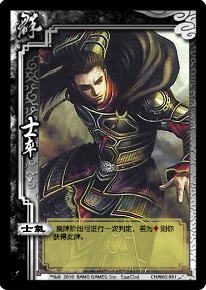
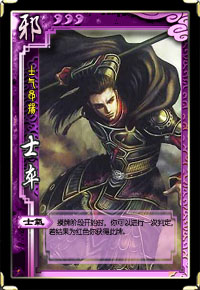
调整兵卒图片、名称和技能 将春华加入一将包 闯关武将不会在通常模式出现 但可用自由选将选到

diff --git a/src/pass/pass-package.cpp b/src/pass/pass-package.cpp
@@ -237,7 +237,7 @@ public:
         ServerPlayer *gongshou = effect.from;
         Room *room = gongshou->getRoom();
 
-        if(gongshou->getHp() <= 1 || gongshou->getAttackRange() > 3){
+        if(gongshou->getHp() <= 1 || gongshou->getAttackRange() > 4){
             if(gongshou->askForSkillInvoke(objectName(), QVariant::fromValue(effect))){
                 room->slashResult(effect, NULL);
                 return true;
@@ -254,11 +254,11 @@ public:
         frequency = Compulsory;
     }
 
-    virtual bool trigger(TriggerEvent event, ServerPlayer *jianwei, QVariant &data) const{
-        Room *room = jianwei->getRoom();
+    virtual bool trigger(TriggerEvent event, ServerPlayer *jianshi, QVariant &data) const{
+        Room *room = jianshi->getRoom();
         LogMessage log;
         log.type = "#TriggerSkill";
-        log.from = jianwei;
+        log.from = jianshi;
         log.arg = objectName();
         SlashEffectStruct effect = data.value<SlashEffectStruct>();
         if(event == SlashEffect){
@@ -286,15 +286,15 @@ public:
         frequency = Frequent ;
     }
 
-    virtual bool trigger(TriggerEvent , ServerPlayer *jianwei, QVariant &data) const{
+    virtual bool trigger(TriggerEvent , ServerPlayer *jianshi, QVariant &data) const{
         CardEffectStruct effect = data.value<CardEffectStruct>();
 
         if(effect.card->inherits("AOE")){
-            Room *room = jianwei->getRoom();
-            jianwei->drawCards(1);
+            Room *room = jianshi->getRoom();
+            jianshi->drawCards(1);
             LogMessage log;
             log.type = "#TriggerDrawSkill";
-            log.from = jianwei;
+            log.from = jianshi;
             log.arg = objectName();
             log.arg2 = QString::number(1);
             room->sendLog(log);
@@ -325,6 +325,41 @@ public:
         return correct;
     }
 };
+
+
+
+class XunmaPass: public OneCardViewAsSkill{
+public:
+    XunmaPass():OneCardViewAsSkill("xunma_p"){
+
+    }
+
+    virtual bool viewFilter(const CardItem *to_select) const{
+        return to_select->getCard()->inherits("Horse") ;
+    }
+
+    virtual const Card *viewAs(CardItem *card_item) const{
+        XunmaPassCard *card = new XunmaPassCard;
+        card->addSubcard(card_item->getCard()->getId());
+        return card;
+    }
+};
+
+XunmaPassCard::XunmaPassCard(){
+    target_fixed = true ;
+}
+
+void XunmaPassCard::use(Room *room, ServerPlayer *qibing, const QList<ServerPlayer *> &) const{
+    room->throwCard(this);
+    qibing->drawCards(2);
+    if(qibing->isWounded()){
+        RecoverStruct recover;
+        recover.card = this;
+        recover.who = qibing;
+        room->recover(qibing,recover);
+    }
+}
+
 
 class ChenwenPass: public TriggerSkill{
 public:
@@ -382,14 +417,14 @@ public:
 };
 
 
-class YaoshuPass: public OneCardViewAsSkill{
+class DianjiPass: public OneCardViewAsSkill{
 public:
-    YaoshuPass():OneCardViewAsSkill("yaoshu_p"){
+    DianjiPass():OneCardViewAsSkill("dianji_p"){
 
     }
 
     virtual bool isEnabledAtPlay(const Player *player) const{
-        return !player->hasUsed("YaoshuPassCard");
+        return !player->hasUsed("DianjiPassCard");
     }
 
     virtual bool viewFilter(const CardItem *to_select) const{
@@ -397,26 +432,25 @@ public:
     }
 
     virtual const Card *viewAs(CardItem *card_item) const{
-        YaoshuPassCard *yaoshu_card = new YaoshuPassCard;
-        yaoshu_card->addSubcard(card_item->getCard()->getId());
-
-        return yaoshu_card;
+        DianjiPassCard *card = new DianjiPassCard;
+        card->addSubcard(card_item->getCard()->getId());
+        return card;
     }
 };
 
-YaoshuPassCard::YaoshuPassCard(){
+DianjiPassCard::DianjiPassCard(){
     once = true;
 }
 
-bool YaoshuPassCard::targetFilter(const QList<const Player *> &targets, const Player *to_select, const Player *Self) const{
+bool DianjiPassCard::targetFilter(const QList<const Player *> &targets, const Player *to_select, const Player *Self) const{
     return targets.isEmpty();
 }
 
-void YaoshuPassCard::onEffect(const CardEffectStruct &effect) const{
-    ServerPlayer *yaodao = effect.from;
+void DianjiPassCard::onEffect(const CardEffectStruct &effect) const{
+    ServerPlayer *leishi = effect.from;
     ServerPlayer *target = effect.to;
 
-    Room *room = yaodao->getRoom();
+    Room *room = leishi->getRoom();
     room->setEmotion(target, "bad");
 
     JudgeStruct judge;
@@ -431,20 +465,19 @@ void YaoshuPassCard::onEffect(const CardEffectStruct &effect) const{
         DamageStruct damage;
         damage.card = NULL;
         damage.damage = 1;
-        damage.from = yaodao;
+        damage.from = leishi;
         damage.to = target;
         damage.nature = DamageStruct::Thunder;
 
         room->damage(damage);
     }else
-        room->setEmotion(yaodao, "bad");
+        room->setEmotion(leishi, "bad");
 }
 
 
-
-class JitianPass: public TriggerSkill{
+class LeitiPass: public TriggerSkill{
 public:
-    JitianPass():TriggerSkill("jitian_p"){
+    LeitiPass():TriggerSkill("leiti_p"){
         events << Predamaged;
     }
 
@@ -3362,21 +3395,23 @@ PassPackage::PassPackage()
 
     General *gongshou = new General(this,"gongshou_e","evil",3, false, true);
     gongshou->addSkill(new QianggongPass);
+    gongshou->addSkill(new Skill("shenshe_p"));
 
-    General *jianwei = new General(this,"jianwei_e","evil",3, false, true);
-    jianwei->addSkill(new PojiaPass);
-    jianwei->addSkill(new ZhanshangPass);
+    General *jianshi = new General(this,"jianshi_e","evil",3, false, true);
+    jianshi->addSkill(new PojiaPass);
+    jianshi->addSkill(new ZhanshangPass);
 
     General *qibing = new General(this,"qibing_e","evil",3, true, true);
     qibing->addSkill(new QishuPass);
+    qibing->addSkill(new XunmaPass);
 
     General *huwei = new General(this,"huwei_e","evil",3, true, true);
     huwei->addSkill(new ChenwenPass);
     huwei->addSkill(new ZhongzhuangPass);
 
-    General *yaodao = new General(this,"yaodao_e","evil",3, true, true);
-    yaodao->addSkill(new YaoshuPass);
-    yaodao->addSkill(new JitianPass);
+    General *leishi = new General(this,"leishi_e","evil",3, true, true);
+    leishi->addSkill(new DianjiPass);
+    leishi->addSkill(new LeitiPass);
 
     General *kuangdaoke = new General(this,"kuangdaoke_e","evil",3, true, true);
     kuangdaoke->addSkill(new LianzhanPass);
@@ -3398,7 +3433,8 @@ PassPackage::PassPackage()
 
     addMetaObject<DuanyanPassCard>();
     addMetaObject<QuanhengCard>();
-    addMetaObject<YaoshuPassCard>();
+    addMetaObject<XunmaPassCard>();
+    addMetaObject<DianjiPassCard>();
     addMetaObject<RendePassCard>();
     addMetaObject<JijiangPassCard>();
     addMetaObject<LiegongPassCard>();

diff --git a/src/package/yjcm-package.cpp b/src/package/yjcm-package.cpp
@@ -908,6 +908,60 @@ public:
     }
 };
 
+
+class Shangshi: public TriggerSkill{
+public:
+    Shangshi():TriggerSkill("shangshi"){
+        events << Damaged << CardLost << HpLost ;
+        frequency = Frequent ;
+    }
+
+    virtual bool trigger(TriggerEvent event, ServerPlayer *chunhua, QVariant &data) const{
+        Room *room = chunhua->getRoom();
+        if(chunhua->getLostHp() <= chunhua->getHandcardNum())
+            return false ;
+        if(event == CardLost){
+            CardMoveStar move = data.value<CardMoveStar>();
+            if(move->from_place != Player::Hand)
+                return false ;
+        }
+        if(room->askForSkillInvoke(chunhua,objectName())){
+            room->playSkillEffect(objectName());
+            int n = chunhua->getLostHp() - chunhua->getHandcardNum() ;
+            LogMessage log;
+            log.type = "#TriggerDrawSkill";
+            log.from = chunhua;
+            log.arg = objectName();
+            log.arg2 = QString::number(n);
+            room->sendLog(log);
+            chunhua->drawCards(n);
+        }
+        return false;
+    }
+};
+
+
+class Jueqing: public TriggerSkill{
+public:
+    Jueqing():TriggerSkill("jueqing"){
+        events << Predamage;
+        frequency = Compulsory ;
+    }
+
+    virtual bool trigger(TriggerEvent , ServerPlayer *chunhua, QVariant &data) const{
+        Room *room = chunhua->getRoom();
+        room->playSkillEffect(objectName());
+        DamageStruct damage = data.value<DamageStruct>();
+        LogMessage log;
+        log.type = "#Jueqing";
+        log.from = chunhua;
+        log.to.append(damage.to);
+        room->sendLog(log);
+        room->loseHp(damage.to,damage.damage);
+        return true;
+    }
+};
+
 YJCMPackage::YJCMPackage():Package("YJCM"){
     General *caozhi = new General(this, "caozhi", "wei", 3);
     caozhi->addSkill(new Luoying);
@@ -953,6 +1007,10 @@ YJCMPackage::YJCMPackage():Package("YJCM"){
     General *gaoshun = new General(this, "gaoshun", "qun");
     gaoshun->addSkill(new Xianzhen);
     gaoshun->addSkill(new Jiejiu);
+
+    General *zhangchunhua = new General(this, "zhangchunhua", "wei", 3 , false);
+    zhangchunhua->addSkill(new Shangshi);
+    zhangchunhua->addSkill(new Jueqing);
 
     addMetaObject<JujianCard>();
     addMetaObject<MingceCard>();

diff --git a/src/scenario/pass-mode-scenario.cpp b/src/scenario/pass-mode-scenario.cpp
@@ -37,16 +37,16 @@ PassMode::PassMode(QObject *parent)
 {
     setObjectName("pass_mode_rule");
 
-    enemy_list  << "shizu+gongshou+jianwei" << "jianwei+qibing+jianwei"
-                << "huwei+gongshou+jianwei" << "jianwei+kuangdaoke+shizu"
-                << "huwei+caocao_p+jianwei" << "kuangdaoke+luxun_p+shizu"
-                << "qibing+machao_p+qibing" << "jianwei+zhaoyun_p+kuangdaoke"
-                << "jianwei+zhouyu_p+jianwei" << "yaodao+guojia_p+yaodao"
-                << "huwei+zhangliao_p+kuangdaoke" << "shizu+shenlumeng_p+shizu"
-                << "huwei+sunshangxiang_p+lumeng_p" << "zhugeliang_p+huangyueying_p+kuangdaoke"
-                << "kuangdaoke+xuchu_p+xiahoudun_p" <<"luxun_p+simayi_p+yaodao"
-                << "guojia_p+caocao_p+zhenji_p" << "zhouyu_p+sunquan_p+huanggai_p"
-                << "zhaoyun_p+liubei_p+zhangfei_p" << "lubu_p+shenguanyu_p+diaochan_p";
+    enemy_list  << "shizu+gongshou+jianshi" << "jianshi+qibing+jianshi"
+                << "huwei+gongshou+jianshi" << "jianshi+kuangdaoke+shizu"
+                << "huwei+caocao+jianshi" << "kuangdaoke+luxun+shizu"
+                << "qibing+machao+qibing" << "jianshi+zhaoyun+kuangdaoke"
+                << "jianshi+zhouyu+jianshi" << "leishi+guojia+leishi"
+                << "huwei+zhangliao+kuangdaoke" << "shizu+shenlumeng+shizu"
+                << "huwei+sunshangxiang+lumeng" << "zhugeliang+huangyueying+kuangdaoke"
+                << "kuangdaoke+xuchu+xiahoudun" <<"luxun+simayi+leishi"
+                << "guojia+caocao+zhenji" << "zhouyu+sunquan+huanggai"
+                << "zhaoyun+liubei+zhangfei" << "lubu+shenguanyu+diaochan";
 
     exp_map.insert("evil", 4);
     exp_map.insert("wei", 8);

diff --git a/src/pass/pass-package.h b/src/pass/pass-package.h
@@ -183,13 +183,21 @@ public:
     virtual void use(Room *room, ServerPlayer *source, const QList<ServerPlayer *> &targets) const;
 };
 
-class YaoshuPassCard: public SkillCard{
+class DianjiPassCard: public SkillCard{
     Q_OBJECT
 
 public:
-    Q_INVOKABLE YaoshuPassCard();
+    Q_INVOKABLE DianjiPassCard();
     virtual bool targetFilter(const QList<const Player *> &targets, const Player *to_select, const Player *Self) const;
     virtual void onEffect(const CardEffectStruct &effect) const;
+};
+
+class XunmaPassCard: public SkillCard{
+    Q_OBJECT
+
+public:
+    Q_INVOKABLE XunmaPassCard();
+    virtual void use(Room *room, ServerPlayer *source, const QList<ServerPlayer *> &targets) const;
 };
 
 class PassPackage: public Package{

diff --git a/src/server/server.cpp b/src/server/server.cpp
@@ -768,6 +768,7 @@ bool ServerDialog::config(){
             ban_packages.insert(package_name);
         }
     }
+    Sanguosha->addBanPackage("pass");
 
     Config.BanPackages = ban_packages.toList();
     Config.setValue("BanPackages", Config.BanPackages);

diff --git a/src/core/player.cpp b/src/core/player.cpp
@@ -145,6 +145,8 @@ int Player::getAttackRange() const{
         range = hp;
     else
         range = 1;
+    if(hasSkill("shenshe_p"))
+        range *= 2 ;
     return range ;
 }
 
